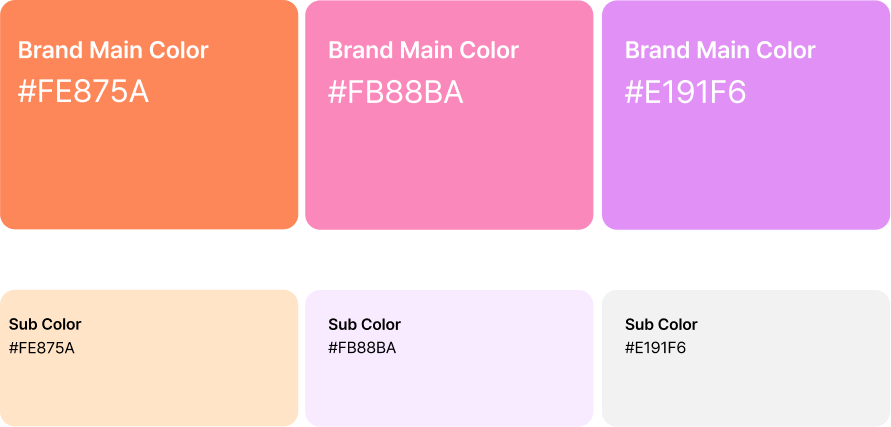
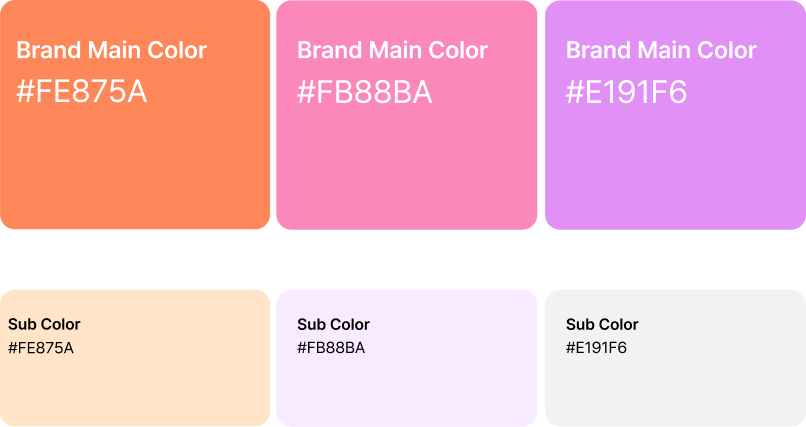
HTML 파일 수정

diff --git a/style.css b/style.css
@@ -307,6 +307,17 @@ html {
     height: auto;
 }
 
+#design .Brand-Color .text-box img.img-center, #design .Typography .text-box img.img-center {
+  margin-top: 100px;    /* 위쪽 여백 */
+  margin-right: auto;   /* 오른쪽은 auto 로 중앙정렬 유지 */
+  margin-bottom: 100px; /* 아래쪽 여백(필요 없으면 0으로) */
+  margin-left: 450px;
+}
+
+#design .Typography .text-box img.img-center{
+    margin: 100px;
+}
+
 #design .Icon .text-box img.img-center {
     margin-left: 5rem;
     margin-right: 5rem;
@@ -429,6 +440,8 @@ section#design {
     overflow-x: visible;
     /* 섹션 단위로 가로 넘침 허용 */
 }
+
+
 
 #about,
 #design,
